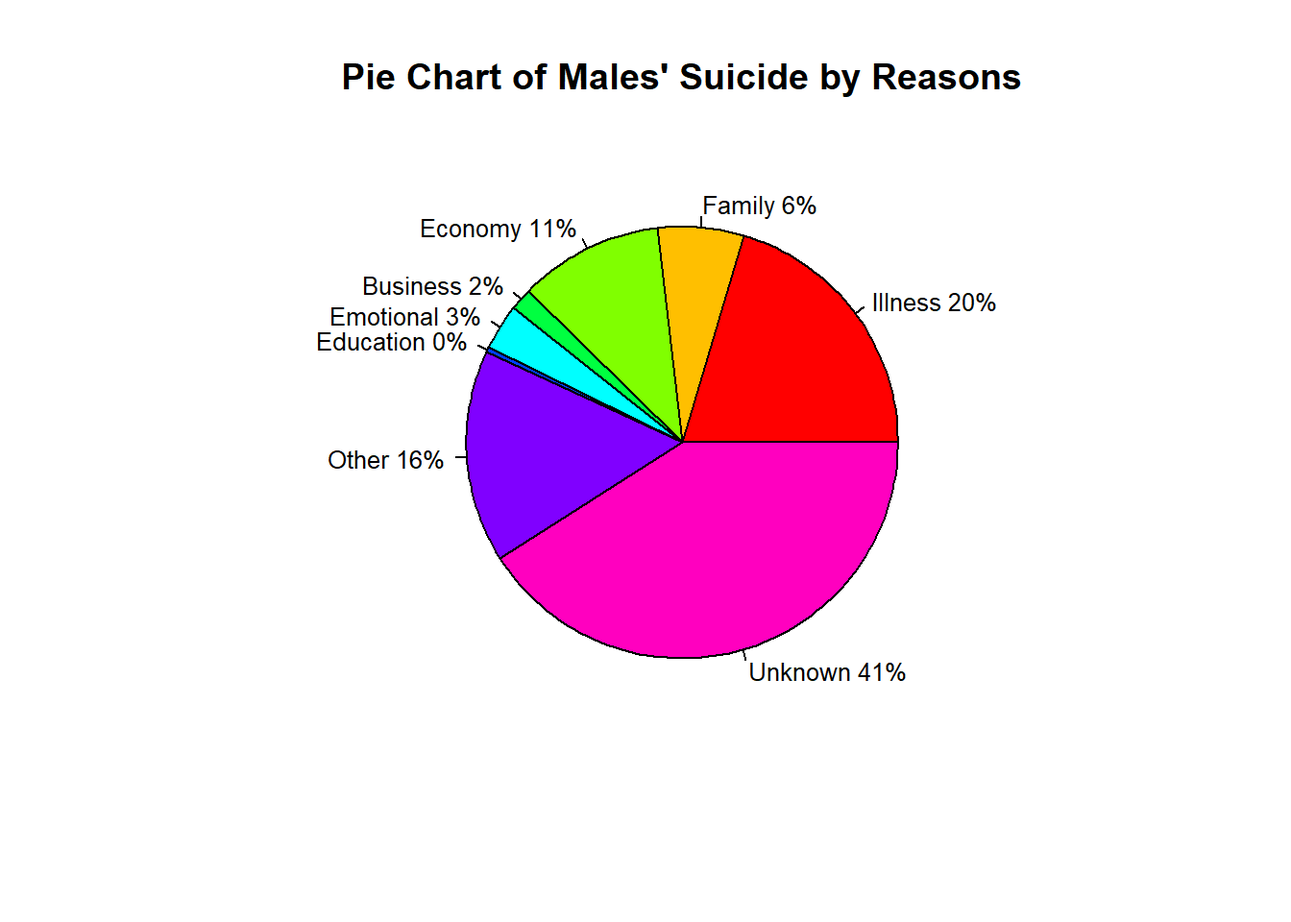
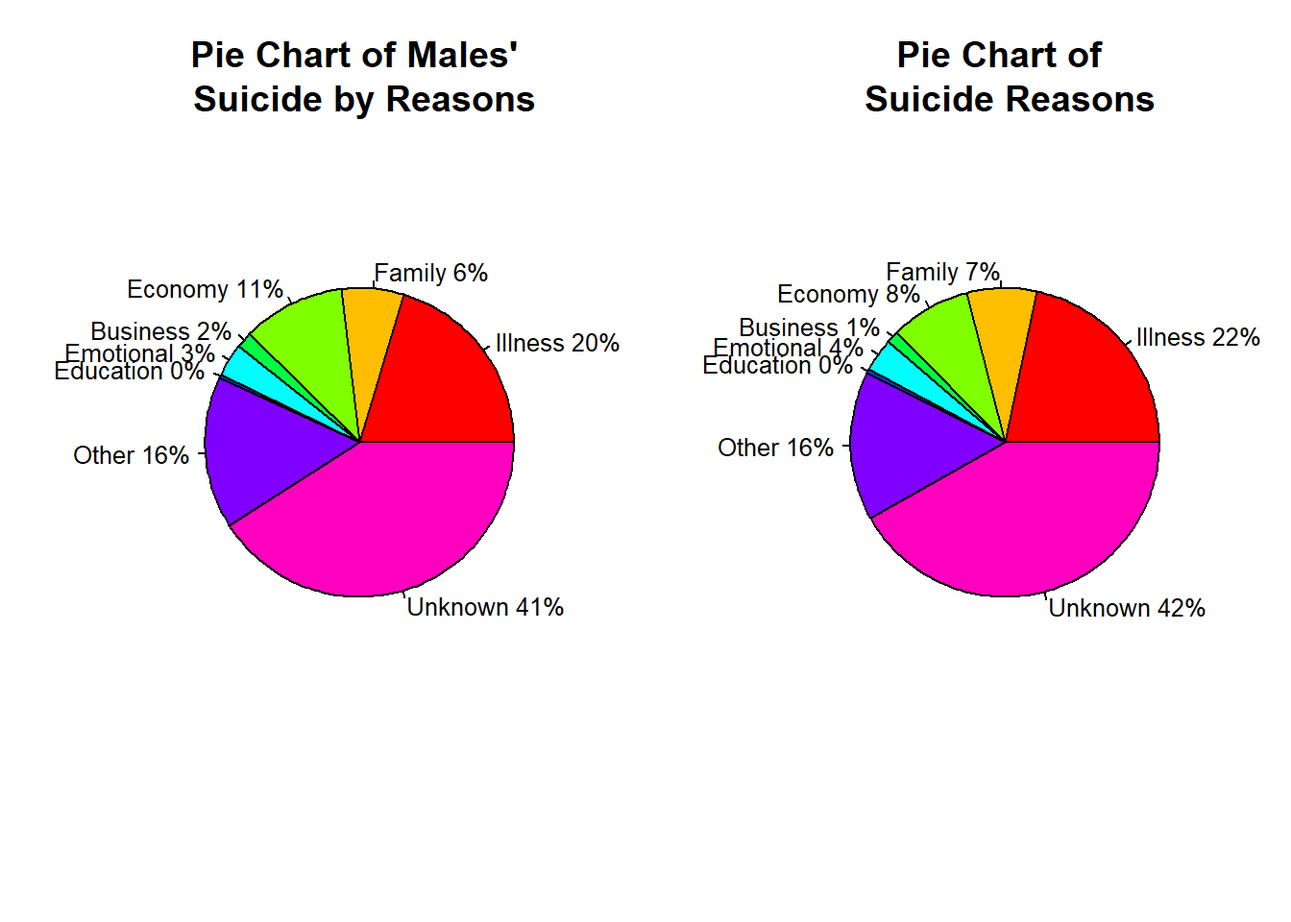
LAST

Changed region(s): [[0.0312, 0.2188, 0.9688, 0.75], [0.125, 0.0312, 0.9062, 0.125]]

diff --git a/docs/analysis.html b/docs/analysis.html
@@ -535,8 +535,13 @@ pre > code.sourceCode > span > a:first-child::before { text-decoration: underlin
 <div class="cell" data-codefold="true">
 <details>
 <summary>Code</summary>
-<div class="sourceCode cell-code" id="cb18"><pre class="sourceCode r code-with-copy"><code class="sourceCode r"><span id="cb18-1"><a href="#cb18-1" aria-hidden="true" tabindex="-1"></a><span class="fu">pie</span>(slices2,lbls2, <span class="at">col=</span><span class="fu">rainbow</span>(<span class="fu">length</span>(lbls2)),</span>
-<span id="cb18-2"><a href="#cb18-2" aria-hidden="true" tabindex="-1"></a>   <span class="at">main=</span><span class="st">"Pie Chart of Males' Suicide by Reasons"</span>,<span class="at">cex=</span><span class="fl">0.8</span>)</span></code><button title="Copy to Clipboard" class="code-copy-button"><i class="bi"></i></button></pre></div>
+<div class="sourceCode cell-code" id="cb18"><pre class="sourceCode r code-with-copy"><code class="sourceCode r"><span id="cb18-1"><a href="#cb18-1" aria-hidden="true" tabindex="-1"></a><span class="fu">par</span>(<span class="at">mfrow=</span><span class="fu">c</span>(<span class="dv">1</span>,<span class="dv">2</span>))     </span>
+<span id="cb18-2"><a href="#cb18-2" aria-hidden="true" tabindex="-1"></a></span>
+<span id="cb18-3"><a href="#cb18-3" aria-hidden="true" tabindex="-1"></a></span>
+<span id="cb18-4"><a href="#cb18-4" aria-hidden="true" tabindex="-1"></a><span class="fu">pie</span>(slices2,lbls2, <span class="at">col=</span><span class="fu">rainbow</span>(<span class="fu">length</span>(lbls2)),</span>
+<span id="cb18-5"><a href="#cb18-5" aria-hidden="true" tabindex="-1"></a>   <span class="at">main=</span><span class="st">"Pie Chart of Males' </span><span class="sc">\n</span><span class="st"> Suicide by Reasons"</span>,<span class="at">cex=</span><span class="fl">0.8</span>)</span>
+<span id="cb18-6"><a href="#cb18-6" aria-hidden="true" tabindex="-1"></a><span class="fu">pie</span>(slices,lbls, <span class="at">col=</span><span class="fu">rainbow</span>(<span class="fu">length</span>(lbls)),</span>
+<span id="cb18-7"><a href="#cb18-7" aria-hidden="true" tabindex="-1"></a>   <span class="at">main=</span><span class="st">"Pie Chart of </span><span class="sc">\n</span><span class="st"> Suicide Reasons"</span>,<span class="at">cex=</span><span class="fl">0.8</span>)</span></code><button title="Copy to Clipboard" class="code-copy-button"><i class="bi"></i></button></pre></div>
 </details>
 <div class="cell-output-display">
 <p><img src="analysis_files/figure-html/unnamed-chunk-18-1.png" class="img-fluid" width="672"></p>
@@ -580,20 +585,24 @@ pre > code.sourceCode > span > a:first-child::before { text-decoration: underlin
 <div class="cell" data-codefold="true">
 <details>
 <summary>Code</summary>
-<div class="sourceCode cell-code" id="cb21"><pre class="sourceCode r code-with-copy"><code class="sourceCode r"><span id="cb21-1"><a href="#cb21-1" aria-hidden="true" tabindex="-1"></a>slices <span class="ot">=</span> <span class="fu">c</span>(<span class="fu">sum</span>(<span class="fu">as.numeric</span>(a1<span class="sc">$</span>Total)),<span class="fu">sum</span>(<span class="fu">as.numeric</span>(a2<span class="sc">$</span>Total)),<span class="fu">sum</span>(<span class="fu">as.numeric</span>(a3<span class="sc">$</span>Total)),<span class="fu">sum</span>(<span class="fu">ifelse</span>(<span class="fu">is.na</span>(<span class="fu">as.numeric</span>(a4<span class="sc">$</span>Total)),<span class="dv">0</span>,<span class="fu">as.numeric</span>(a4<span class="sc">$</span>Total))),<span class="fu">sum</span>(<span class="fu">ifelse</span>(<span class="fu">is.na</span>(<span class="fu">as.numeric</span>(a5<span class="sc">$</span>Total)),<span class="dv">0</span>,<span class="fu">as.numeric</span>(a5<span class="sc">$</span>Total))),<span class="fu">sum</span>(<span class="fu">ifelse</span>(<span class="fu">is.na</span>(<span class="fu">as.numeric</span>(a6<span class="sc">$</span>Total)),<span class="dv">0</span>,<span class="fu">as.numeric</span>(a6<span class="sc">$</span>Total))),<span class="fu">sum</span>(<span class="fu">as.numeric</span>(a7<span class="sc">$</span>Total)),<span class="fu">sum</span>(<span class="fu">as.numeric</span>(a8<span class="sc">$</span>Total)))</span>
+<div class="sourceCode cell-code" id="cb21"><pre class="sourceCode r code-with-copy"><code class="sourceCode r"><span id="cb21-1"><a href="#cb21-1" aria-hidden="true" tabindex="-1"></a>slices3 <span class="ot">=</span> <span class="fu">c</span>(<span class="fu">sum</span>(<span class="fu">as.numeric</span>(a1<span class="sc">$</span>Total)),<span class="fu">sum</span>(<span class="fu">as.numeric</span>(a2<span class="sc">$</span>Total)),<span class="fu">sum</span>(<span class="fu">as.numeric</span>(a3<span class="sc">$</span>Total)),<span class="fu">sum</span>(<span class="fu">ifelse</span>(<span class="fu">is.na</span>(<span class="fu">as.numeric</span>(a4<span class="sc">$</span>Total)),<span class="dv">0</span>,<span class="fu">as.numeric</span>(a4<span class="sc">$</span>Total))),<span class="fu">sum</span>(<span class="fu">ifelse</span>(<span class="fu">is.na</span>(<span class="fu">as.numeric</span>(a5<span class="sc">$</span>Total)),<span class="dv">0</span>,<span class="fu">as.numeric</span>(a5<span class="sc">$</span>Total))),<span class="fu">sum</span>(<span class="fu">ifelse</span>(<span class="fu">is.na</span>(<span class="fu">as.numeric</span>(a6<span class="sc">$</span>Total)),<span class="dv">0</span>,<span class="fu">as.numeric</span>(a6<span class="sc">$</span>Total))),<span class="fu">sum</span>(<span class="fu">as.numeric</span>(a7<span class="sc">$</span>Total)),<span class="fu">sum</span>(<span class="fu">as.numeric</span>(a8<span class="sc">$</span>Total)))</span>
 <span id="cb21-2"><a href="#cb21-2" aria-hidden="true" tabindex="-1"></a>name <span class="ot">=</span> <span class="fu">c</span>(<span class="st">"Illness"</span>,<span class="st">"Family"</span>,<span class="st">"Economy"</span>,<span class="st">"Business"</span>,<span class="st">"Emotional"</span>,<span class="st">"Education"</span>,<span class="st">"Other"</span>,<span class="st">"Unknown"</span>)</span>
-<span id="cb21-3"><a href="#cb21-3" aria-hidden="true" tabindex="-1"></a>lbls <span class="ot">&lt;-</span> name</span>
-<span id="cb21-4"><a href="#cb21-4" aria-hidden="true" tabindex="-1"></a>pct <span class="ot">&lt;-</span> <span class="fu">round</span>(slices<span class="sc">/</span><span class="fu">sum</span>(slices)<span class="sc">*</span><span class="dv">100</span>)</span>
-<span id="cb21-5"><a href="#cb21-5" aria-hidden="true" tabindex="-1"></a>lbls <span class="ot">&lt;-</span> <span class="fu">paste</span>(lbls, pct)</span>
+<span id="cb21-3"><a href="#cb21-3" aria-hidden="true" tabindex="-1"></a>lbls3 <span class="ot">&lt;-</span> name</span>
+<span id="cb21-4"><a href="#cb21-4" aria-hidden="true" tabindex="-1"></a>pct <span class="ot">&lt;-</span> <span class="fu">round</span>(slices3<span class="sc">/</span><span class="fu">sum</span>(slices3)<span class="sc">*</span><span class="dv">100</span>)</span>
+<span id="cb21-5"><a href="#cb21-5" aria-hidden="true" tabindex="-1"></a>lbls3 <span class="ot">&lt;-</span> <span class="fu">paste</span>(lbls3, pct)</span>
 <span id="cb21-6"><a href="#cb21-6" aria-hidden="true" tabindex="-1"></a><span class="co"># add percents to labels</span></span>
-<span id="cb21-7"><a href="#cb21-7" aria-hidden="true" tabindex="-1"></a>lbls <span class="ot">&lt;-</span> <span class="fu">paste</span>(lbls,<span class="st">"%"</span>,<span class="at">sep=</span><span class="st">""</span>) <span class="co"># ad % to labels</span></span></code><button title="Copy to Clipboard" class="code-copy-button"><i class="bi"></i></button></pre></div>
+<span id="cb21-7"><a href="#cb21-7" aria-hidden="true" tabindex="-1"></a>lbls3 <span class="ot">&lt;-</span> <span class="fu">paste</span>(lbls3,<span class="st">"%"</span>,<span class="at">sep=</span><span class="st">""</span>) <span class="co"># ad % to labels</span></span></code><button title="Copy to Clipboard" class="code-copy-button"><i class="bi"></i></button></pre></div>
 </details>
 </div>
 <div class="cell" data-codefold="true">
 <details>
 <summary>Code</summary>
-<div class="sourceCode cell-code" id="cb22"><pre class="sourceCode r code-with-copy"><code class="sourceCode r"><span id="cb22-1"><a href="#cb22-1" aria-hidden="true" tabindex="-1"></a><span class="fu">pie</span>(slices,<span class="at">labels =</span> lbls, <span class="at">col=</span><span class="fu">rainbow</span>(<span class="fu">length</span>(lbls)),</span>
-<span id="cb22-2"><a href="#cb22-2" aria-hidden="true" tabindex="-1"></a>   <span class="at">main=</span><span class="st">"Pie Chart of Females' Suicide by Reasons"</span>,<span class="at">cex=</span><span class="fl">0.5</span>)</span></code><button title="Copy to Clipboard" class="code-copy-button"><i class="bi"></i></button></pre></div>
+<div class="sourceCode cell-code" id="cb22"><pre class="sourceCode r code-with-copy"><code class="sourceCode r"><span id="cb22-1"><a href="#cb22-1" aria-hidden="true" tabindex="-1"></a><span class="fu">par</span>(<span class="at">mfrow=</span><span class="fu">c</span>(<span class="dv">1</span>,<span class="dv">2</span>))     </span>
+<span id="cb22-2"><a href="#cb22-2" aria-hidden="true" tabindex="-1"></a></span>
+<span id="cb22-3"><a href="#cb22-3" aria-hidden="true" tabindex="-1"></a><span class="fu">pie</span>(slices3,<span class="at">labels =</span> lbls3, <span class="at">col=</span><span class="fu">rainbow</span>(<span class="fu">length</span>(lbls3)),</span>
+<span id="cb22-4"><a href="#cb22-4" aria-hidden="true" tabindex="-1"></a>   <span class="at">main=</span><span class="st">"Pie Chart of Females' </span><span class="sc">\n</span><span class="st"> Suicide by Reasons"</span>,<span class="at">cex=</span><span class="fl">0.5</span>)</span>
+<span id="cb22-5"><a href="#cb22-5" aria-hidden="true" tabindex="-1"></a><span class="fu">pie</span>(slices,lbls, <span class="at">col=</span><span class="fu">rainbow</span>(<span class="fu">length</span>(lbls)),</span>
+<span id="cb22-6"><a href="#cb22-6" aria-hidden="true" tabindex="-1"></a>   <span class="at">main=</span><span class="st">"Pie Chart of </span><span class="sc">\n</span><span class="st"> Suicide Reasons"</span>,<span class="at">cex=</span><span class="fl">0.5</span>)</span></code><button title="Copy to Clipboard" class="code-copy-button"><i class="bi"></i></button></pre></div>
 </details>
 <div class="cell-output-display">
 <p><img src="analysis_files/figure-html/unnamed-chunk-22-1.png" class="img-fluid" width="672"></p>
@@ -1340,59 +1349,67 @@ window.document.addEventListener("DOMContentLoaded", function (event) {
 <span id="cb23-365"><a href="#cb23-365" aria-hidden="true" tabindex="-1"></a></span>
 <span id="cb23-368"><a href="#cb23-368" aria-hidden="true" tabindex="-1"></a><span class="in">```{r}</span></span>
 <span id="cb23-369"><a href="#cb23-369" aria-hidden="true" tabindex="-1"></a><span class="co">#| codefold: true</span></span>
-<span id="cb23-370"><a href="#cb23-370" aria-hidden="true" tabindex="-1"></a></span>
-<span id="cb23-371"><a href="#cb23-371" aria-hidden="true" tabindex="-1"></a><span class="fu">pie</span>(slices2,lbls2, <span class="at">col=</span><span class="fu">rainbow</span>(<span class="fu">length</span>(lbls2)),</span>
-<span id="cb23-372"><a href="#cb23-372" aria-hidden="true" tabindex="-1"></a>   <span class="at">main=</span><span class="st">"Pie Chart of Males' Suicide by Reasons"</span>,<span class="at">cex=</span><span class="fl">0.8</span>)</span>
-<span id="cb23-373"><a href="#cb23-373" aria-hidden="true" tabindex="-1"></a></span>
-<span id="cb23-374"><a href="#cb23-374" aria-hidden="true" tabindex="-1"></a><span class="in">```</span></span>
-<span id="cb23-375"><a href="#cb23-375" aria-hidden="true" tabindex="-1"></a></span>
-<span id="cb23-376"><a href="#cb23-376" aria-hidden="true" tabindex="-1"></a><span class="fu">### **Suicides of Females by Reason**</span></span>
+<span id="cb23-370"><a href="#cb23-370" aria-hidden="true" tabindex="-1"></a><span class="fu">par</span>(<span class="at">mfrow=</span><span class="fu">c</span>(<span class="dv">1</span>,<span class="dv">2</span>))     </span>
+<span id="cb23-371"><a href="#cb23-371" aria-hidden="true" tabindex="-1"></a></span>
+<span id="cb23-372"><a href="#cb23-372" aria-hidden="true" tabindex="-1"></a></span>
+<span id="cb23-373"><a href="#cb23-373" aria-hidden="true" tabindex="-1"></a><span class="fu">pie</span>(slices2,lbls2, <span class="at">col=</span><span class="fu">rainbow</span>(<span class="fu">length</span>(lbls2)),</span>
+<span id="cb23-374"><a href="#cb23-374" aria-hidden="true" tabindex="-1"></a>   <span class="at">main=</span><span class="st">"Pie Chart of Males' </span><span class="sc">\n</span><span class="st"> Suicide by Reasons"</span>,<span class="at">cex=</span><span class="fl">0.8</span>)</span>
+<span id="cb23-375"><a href="#cb23-375" aria-hidden="true" tabindex="-1"></a><span class="fu">pie</span>(slices,lbls, <span class="at">col=</span><span class="fu">rainbow</span>(<span class="fu">length</span>(lbls)),</span>
+<span id="cb23-376"><a href="#cb23-376" aria-hidden="true" tabindex="-1"></a>   <span class="at">main=</span><span class="st">"Pie Chart of </span><span class="sc">\n</span><span class="st"> Suicide Reasons"</span>,<span class="at">cex=</span><span class="fl">0.8</span>)</span>
 <span id="cb23-377"><a href="#cb23-377" aria-hidden="true" tabindex="-1"></a></span>
-<span id="cb23-380"><a href="#cb23-380" aria-hidden="true" tabindex="-1"></a><span class="in">```{r}</span></span>
-<span id="cb23-381"><a href="#cb23-381" aria-hidden="true" tabindex="-1"></a><span class="co">#| codefold: true</span></span>
-<span id="cb23-382"><a href="#cb23-382" aria-hidden="true" tabindex="-1"></a><span class="co">#| output: false</span></span>
-<span id="cb23-383"><a href="#cb23-383" aria-hidden="true" tabindex="-1"></a>  a <span class="ot">=</span> <span class="fu">filter</span>(data,Age<span class="sc">==</span><span class="st">"Total"</span>, Sex <span class="sc">==</span> <span class="st">"Female"</span>)</span>
-<span id="cb23-384"><a href="#cb23-384" aria-hidden="true" tabindex="-1"></a>  a1 <span class="ot">=</span> <span class="fu">data.frame</span>(<span class="at">Year=</span>a<span class="sc">$</span>Year,<span class="at">Total=</span>a<span class="sc">$</span>Illness,<span class="at">Cause=</span><span class="st">"Illness"</span>)</span>
-<span id="cb23-385"><a href="#cb23-385" aria-hidden="true" tabindex="-1"></a>  a2 <span class="ot">=</span> <span class="fu">data.frame</span>(<span class="at">Year=</span>a<span class="sc">$</span>Year,<span class="at">Total=</span>a<span class="sc">$</span>Family,<span class="at">Cause=</span><span class="st">"Family"</span>)</span>
-<span id="cb23-386"><a href="#cb23-386" aria-hidden="true" tabindex="-1"></a>  a3 <span class="ot">=</span> <span class="fu">data.frame</span>(<span class="at">Year=</span>a<span class="sc">$</span>Year,<span class="at">Total=</span>a<span class="sc">$</span>Economy,<span class="at">Cause=</span><span class="st">"Economy"</span>)</span>
-<span id="cb23-387"><a href="#cb23-387" aria-hidden="true" tabindex="-1"></a>  a4 <span class="ot">=</span> <span class="fu">data.frame</span>(<span class="at">Year=</span>a<span class="sc">$</span>Year,<span class="at">Total=</span>a<span class="sc">$</span>Business,<span class="at">Cause=</span><span class="st">"Business"</span>)</span>
-<span id="cb23-388"><a href="#cb23-388" aria-hidden="true" tabindex="-1"></a>  a5 <span class="ot">=</span> <span class="fu">data.frame</span>(<span class="at">Year=</span>a<span class="sc">$</span>Year,<span class="at">Total=</span>a<span class="sc">$</span>Emotional,<span class="at">Cause=</span><span class="st">"Emotional"</span>)</span>
-<span id="cb23-389"><a href="#cb23-389" aria-hidden="true" tabindex="-1"></a>  a6 <span class="ot">=</span> <span class="fu">data.frame</span>(<span class="at">Year=</span>a<span class="sc">$</span>Year,<span class="at">Total=</span>a<span class="sc">$</span>Education,<span class="at">Cause=</span><span class="st">"Education"</span>)</span>
-<span id="cb23-390"><a href="#cb23-390" aria-hidden="true" tabindex="-1"></a>  a7 <span class="ot">=</span> <span class="fu">data.frame</span>(<span class="at">Year=</span>a<span class="sc">$</span>Year,<span class="at">Total=</span>a<span class="sc">$</span>Other,<span class="at">Cause=</span><span class="st">"Other"</span>)</span>
-<span id="cb23-391"><a href="#cb23-391" aria-hidden="true" tabindex="-1"></a>  a8 <span class="ot">=</span> <span class="fu">data.frame</span>(<span class="at">Year=</span>a<span class="sc">$</span>Year,<span class="at">Total=</span>a<span class="sc">$</span>Unknown,<span class="at">Cause=</span><span class="st">"Unknown"</span>)</span>
-<span id="cb23-392"><a href="#cb23-392" aria-hidden="true" tabindex="-1"></a>  cause <span class="ot">=</span> <span class="fu">rbind</span>(a1,a2,a3,a4,a5,a6,a7,a8,<span class="at">deparse.level =</span> <span class="dv">0</span>)</span>
-<span id="cb23-393"><a href="#cb23-393" aria-hidden="true" tabindex="-1"></a>  b <span class="ot">=</span> <span class="fu">as.numeric</span>(cause<span class="sc">$</span>Total)</span>
-<span id="cb23-394"><a href="#cb23-394" aria-hidden="true" tabindex="-1"></a>  c <span class="ot">=</span> <span class="fu">ifelse</span>(<span class="fu">is.na</span>(b),<span class="dv">0</span>,b)</span>
-<span id="cb23-395"><a href="#cb23-395" aria-hidden="true" tabindex="-1"></a><span class="in">```</span></span>
-<span id="cb23-396"><a href="#cb23-396" aria-hidden="true" tabindex="-1"></a></span>
-<span id="cb23-399"><a href="#cb23-399" aria-hidden="true" tabindex="-1"></a><span class="in">```{r}</span></span>
-<span id="cb23-400"><a href="#cb23-400" aria-hidden="true" tabindex="-1"></a><span class="co">#| codefold: true</span></span>
-<span id="cb23-401"><a href="#cb23-401" aria-hidden="true" tabindex="-1"></a>graph <span class="ot">&lt;-</span> cause <span class="sc">%&gt;%</span> </span>
-<span id="cb23-402"><a href="#cb23-402" aria-hidden="true" tabindex="-1"></a>    <span class="fu">filter</span>(Cause <span class="sc">%in%</span> <span class="fu">c</span>(<span class="st">"Illness"</span>,<span class="st">"Family"</span>,<span class="st">"Economy"</span>,<span class="st">"Business"</span>,<span class="st">"Emotional"</span>,<span class="st">"Education"</span>,<span class="st">"Other"</span>,<span class="st">"Unknown"</span>))</span>
-<span id="cb23-403"><a href="#cb23-403" aria-hidden="true" tabindex="-1"></a>  graph <span class="sc">%&gt;%</span></span>
-<span id="cb23-404"><a href="#cb23-404" aria-hidden="true" tabindex="-1"></a>    <span class="fu">ggplot</span>( <span class="fu">aes</span>(<span class="at">x=</span>Year, <span class="at">y=</span>c, <span class="at">group=</span>Cause, <span class="at">color=</span>Cause)) <span class="sc">+</span></span>
-<span id="cb23-405"><a href="#cb23-405" aria-hidden="true" tabindex="-1"></a>      <span class="fu">geom_line</span>() <span class="sc">+</span></span>
-<span id="cb23-406"><a href="#cb23-406" aria-hidden="true" tabindex="-1"></a>      <span class="fu">ylab</span>(<span class="st">"Number of Suicides"</span>) <span class="sc">+</span></span>
-<span id="cb23-407"><a href="#cb23-407" aria-hidden="true" tabindex="-1"></a>      <span class="fu">ggtitle</span>(<span class="st">"Number of Females' Suicide by Reasons"</span>)</span>
-<span id="cb23-408"><a href="#cb23-408" aria-hidden="true" tabindex="-1"></a><span class="in">```</span></span>
-<span id="cb23-409"><a href="#cb23-409" aria-hidden="true" tabindex="-1"></a></span>
-<span id="cb23-412"><a href="#cb23-412" aria-hidden="true" tabindex="-1"></a><span class="in">```{r}</span></span>
-<span id="cb23-413"><a href="#cb23-413" aria-hidden="true" tabindex="-1"></a><span class="co">#| codefold: true</span></span>
-<span id="cb23-414"><a href="#cb23-414" aria-hidden="true" tabindex="-1"></a><span class="co">#| output: false</span></span>
-<span id="cb23-415"><a href="#cb23-415" aria-hidden="true" tabindex="-1"></a>slices <span class="ot">=</span> <span class="fu">c</span>(<span class="fu">sum</span>(<span class="fu">as.numeric</span>(a1<span class="sc">$</span>Total)),<span class="fu">sum</span>(<span class="fu">as.numeric</span>(a2<span class="sc">$</span>Total)),<span class="fu">sum</span>(<span class="fu">as.numeric</span>(a3<span class="sc">$</span>Total)),<span class="fu">sum</span>(<span class="fu">ifelse</span>(<span class="fu">is.na</span>(<span class="fu">as.numeric</span>(a4<span class="sc">$</span>Total)),<span class="dv">0</span>,<span class="fu">as.numeric</span>(a4<span class="sc">$</span>Total))),<span class="fu">sum</span>(<span class="fu">ifelse</span>(<span class="fu">is.na</span>(<span class="fu">as.numeric</span>(a5<span class="sc">$</span>Total)),<span class="dv">0</span>,<span class="fu">as.numeric</span>(a5<span class="sc">$</span>Total))),<span class="fu">sum</span>(<span class="fu">ifelse</span>(<span class="fu">is.na</span>(<span class="fu">as.numeric</span>(a6<span class="sc">$</span>Total)),<span class="dv">0</span>,<span class="fu">as.numeric</span>(a6<span class="sc">$</span>Total))),<span class="fu">sum</span>(<span class="fu">as.numeric</span>(a7<span class="sc">$</span>Total)),<span class="fu">sum</span>(<span class="fu">as.numeric</span>(a8<span class="sc">$</span>Total)))</span>
-<span id="cb23-416"><a href="#cb23-416" aria-hidden="true" tabindex="-1"></a>name <span class="ot">=</span> <span class="fu">c</span>(<span class="st">"Illness"</span>,<span class="st">"Family"</span>,<span class="st">"Economy"</span>,<span class="st">"Business"</span>,<span class="st">"Emotional"</span>,<span class="st">"Education"</span>,<span class="st">"Other"</span>,<span class="st">"Unknown"</span>)</span>
-<span id="cb23-417"><a href="#cb23-417" aria-hidden="true" tabindex="-1"></a>lbls <span class="ot">&lt;-</span> name</span>
-<span id="cb23-418"><a href="#cb23-418" aria-hidden="true" tabindex="-1"></a>pct <span class="ot">&lt;-</span> <span class="fu">round</span>(slices<span class="sc">/</span><span class="fu">sum</span>(slices)<span class="sc">*</span><span class="dv">100</span>)</span>
-<span id="cb23-419"><a href="#cb23-419" aria-hidden="true" tabindex="-1"></a>lbls <span class="ot">&lt;-</span> <span class="fu">paste</span>(lbls, pct)</span>
-<span id="cb23-420"><a href="#cb23-420" aria-hidden="true" tabindex="-1"></a><span class="co"># add percents to labels</span></span>
-<span id="cb23-421"><a href="#cb23-421" aria-hidden="true" tabindex="-1"></a>lbls <span class="ot">&lt;-</span> <span class="fu">paste</span>(lbls,<span class="st">"%"</span>,<span class="at">sep=</span><span class="st">""</span>) <span class="co"># ad % to labels</span></span>
-<span id="cb23-422"><a href="#cb23-422" aria-hidden="true" tabindex="-1"></a><span class="in">```</span></span>
-<span id="cb23-423"><a href="#cb23-423" aria-hidden="true" tabindex="-1"></a></span>
-<span id="cb23-426"><a href="#cb23-426" aria-hidden="true" tabindex="-1"></a><span class="in">```{r}</span></span>
-<span id="cb23-427"><a href="#cb23-427" aria-hidden="true" tabindex="-1"></a><span class="co">#| codefold: true</span></span>
-<span id="cb23-428"><a href="#cb23-428" aria-hidden="true" tabindex="-1"></a><span class="fu">pie</span>(slices,<span class="at">labels =</span> lbls, <span class="at">col=</span><span class="fu">rainbow</span>(<span class="fu">length</span>(lbls)),</span>
-<span id="cb23-429"><a href="#cb23-429" aria-hidden="true" tabindex="-1"></a>   <span class="at">main=</span><span class="st">"Pie Chart of Females' Suicide by Reasons"</span>,<span class="at">cex=</span><span class="fl">0.5</span>)</span>
-<span id="cb23-430"><a href="#cb23-430" aria-hidden="true" tabindex="-1"></a><span class="in">```</span></span>
+<span id="cb23-378"><a href="#cb23-378" aria-hidden="true" tabindex="-1"></a><span class="in">```</span></span>
+<span id="cb23-379"><a href="#cb23-379" aria-hidden="true" tabindex="-1"></a></span>
+<span id="cb23-380"><a href="#cb23-380" aria-hidden="true" tabindex="-1"></a><span class="fu">### **Suicides of Females by Reason**</span></span>
+<span id="cb23-381"><a href="#cb23-381" aria-hidden="true" tabindex="-1"></a></span>
+<span id="cb23-384"><a href="#cb23-384" aria-hidden="true" tabindex="-1"></a><span class="in">```{r}</span></span>
+<span id="cb23-385"><a href="#cb23-385" aria-hidden="true" tabindex="-1"></a><span class="co">#| codefold: true</span></span>
+<span id="cb23-386"><a href="#cb23-386" aria-hidden="true" tabindex="-1"></a><span class="co">#| output: false</span></span>
+<span id="cb23-387"><a href="#cb23-387" aria-hidden="true" tabindex="-1"></a>  a <span class="ot">=</span> <span class="fu">filter</span>(data,Age<span class="sc">==</span><span class="st">"Total"</span>, Sex <span class="sc">==</span> <span class="st">"Female"</span>)</span>
+<span id="cb23-388"><a href="#cb23-388" aria-hidden="true" tabindex="-1"></a>  a1 <span class="ot">=</span> <span class="fu">data.frame</span>(<span class="at">Year=</span>a<span class="sc">$</span>Year,<span class="at">Total=</span>a<span class="sc">$</span>Illness,<span class="at">Cause=</span><span class="st">"Illness"</span>)</span>
+<span id="cb23-389"><a href="#cb23-389" aria-hidden="true" tabindex="-1"></a>  a2 <span class="ot">=</span> <span class="fu">data.frame</span>(<span class="at">Year=</span>a<span class="sc">$</span>Year,<span class="at">Total=</span>a<span class="sc">$</span>Family,<span class="at">Cause=</span><span class="st">"Family"</span>)</span>
+<span id="cb23-390"><a href="#cb23-390" aria-hidden="true" tabindex="-1"></a>  a3 <span class="ot">=</span> <span class="fu">data.frame</span>(<span class="at">Year=</span>a<span class="sc">$</span>Year,<span class="at">Total=</span>a<span class="sc">$</span>Economy,<span class="at">Cause=</span><span class="st">"Economy"</span>)</span>
+<span id="cb23-391"><a href="#cb23-391" aria-hidden="true" tabindex="-1"></a>  a4 <span class="ot">=</span> <span class="fu">data.frame</span>(<span class="at">Year=</span>a<span class="sc">$</span>Year,<span class="at">Total=</span>a<span class="sc">$</span>Business,<span class="at">Cause=</span><span class="st">"Business"</span>)</span>
+<span id="cb23-392"><a href="#cb23-392" aria-hidden="true" tabindex="-1"></a>  a5 <span class="ot">=</span> <span class="fu">data.frame</span>(<span class="at">Year=</span>a<span class="sc">$</span>Year,<span class="at">Total=</span>a<span class="sc">$</span>Emotional,<span class="at">Cause=</span><span class="st">"Emotional"</span>)</span>
+<span id="cb23-393"><a href="#cb23-393" aria-hidden="true" tabindex="-1"></a>  a6 <span class="ot">=</span> <span class="fu">data.frame</span>(<span class="at">Year=</span>a<span class="sc">$</span>Year,<span class="at">Total=</span>a<span class="sc">$</span>Education,<span class="at">Cause=</span><span class="st">"Education"</span>)</span>
+<span id="cb23-394"><a href="#cb23-394" aria-hidden="true" tabindex="-1"></a>  a7 <span class="ot">=</span> <span class="fu">data.frame</span>(<span class="at">Year=</span>a<span class="sc">$</span>Year,<span class="at">Total=</span>a<span class="sc">$</span>Other,<span class="at">Cause=</span><span class="st">"Other"</span>)</span>
+<span id="cb23-395"><a href="#cb23-395" aria-hidden="true" tabindex="-1"></a>  a8 <span class="ot">=</span> <span class="fu">data.frame</span>(<span class="at">Year=</span>a<span class="sc">$</span>Year,<span class="at">Total=</span>a<span class="sc">$</span>Unknown,<span class="at">Cause=</span><span class="st">"Unknown"</span>)</span>
+<span id="cb23-396"><a href="#cb23-396" aria-hidden="true" tabindex="-1"></a>  cause <span class="ot">=</span> <span class="fu">rbind</span>(a1,a2,a3,a4,a5,a6,a7,a8,<span class="at">deparse.level =</span> <span class="dv">0</span>)</span>
+<span id="cb23-397"><a href="#cb23-397" aria-hidden="true" tabindex="-1"></a>  b <span class="ot">=</span> <span class="fu">as.numeric</span>(cause<span class="sc">$</span>Total)</span>
+<span id="cb23-398"><a href="#cb23-398" aria-hidden="true" tabindex="-1"></a>  c <span class="ot">=</span> <span class="fu">ifelse</span>(<span class="fu">is.na</span>(b),<span class="dv">0</span>,b)</span>
+<span id="cb23-399"><a href="#cb23-399" aria-hidden="true" tabindex="-1"></a><span class="in">```</span></span>
+<span id="cb23-400"><a href="#cb23-400" aria-hidden="true" tabindex="-1"></a></span>
+<span id="cb23-403"><a href="#cb23-403" aria-hidden="true" tabindex="-1"></a><span class="in">```{r}</span></span>
+<span id="cb23-404"><a href="#cb23-404" aria-hidden="true" tabindex="-1"></a><span class="co">#| codefold: true</span></span>
+<span id="cb23-405"><a href="#cb23-405" aria-hidden="true" tabindex="-1"></a>graph <span class="ot">&lt;-</span> cause <span class="sc">%&gt;%</span> </span>
+<span id="cb23-406"><a href="#cb23-406" aria-hidden="true" tabindex="-1"></a>    <span class="fu">filter</span>(Cause <span class="sc">%in%</span> <span class="fu">c</span>(<span class="st">"Illness"</span>,<span class="st">"Family"</span>,<span class="st">"Economy"</span>,<span class="st">"Business"</span>,<span class="st">"Emotional"</span>,<span class="st">"Education"</span>,<span class="st">"Other"</span>,<span class="st">"Unknown"</span>))</span>
+<span id="cb23-407"><a href="#cb23-407" aria-hidden="true" tabindex="-1"></a>  graph <span class="sc">%&gt;%</span></span>
+<span id="cb23-408"><a href="#cb23-408" aria-hidden="true" tabindex="-1"></a>    <span class="fu">ggplot</span>( <span class="fu">aes</span>(<span class="at">x=</span>Year, <span class="at">y=</span>c, <span class="at">group=</span>Cause, <span class="at">color=</span>Cause)) <span class="sc">+</span></span>
+<span id="cb23-409"><a href="#cb23-409" aria-hidden="true" tabindex="-1"></a>      <span class="fu">geom_line</span>() <span class="sc">+</span></span>
+<span id="cb23-410"><a href="#cb23-410" aria-hidden="true" tabindex="-1"></a>      <span class="fu">ylab</span>(<span class="st">"Number of Suicides"</span>) <span class="sc">+</span></span>
+<span id="cb23-411"><a href="#cb23-411" aria-hidden="true" tabindex="-1"></a>      <span class="fu">ggtitle</span>(<span class="st">"Number of Females' Suicide by Reasons"</span>)</span>
+<span id="cb23-412"><a href="#cb23-412" aria-hidden="true" tabindex="-1"></a><span class="in">```</span></span>
+<span id="cb23-413"><a href="#cb23-413" aria-hidden="true" tabindex="-1"></a></span>
+<span id="cb23-416"><a href="#cb23-416" aria-hidden="true" tabindex="-1"></a><span class="in">```{r}</span></span>
+<span id="cb23-417"><a href="#cb23-417" aria-hidden="true" tabindex="-1"></a><span class="co">#| codefold: true</span></span>
+<span id="cb23-418"><a href="#cb23-418" aria-hidden="true" tabindex="-1"></a><span class="co">#| output: false</span></span>
+<span id="cb23-419"><a href="#cb23-419" aria-hidden="true" tabindex="-1"></a>slices3 <span class="ot">=</span> <span class="fu">c</span>(<span class="fu">sum</span>(<span class="fu">as.numeric</span>(a1<span class="sc">$</span>Total)),<span class="fu">sum</span>(<span class="fu">as.numeric</span>(a2<span class="sc">$</span>Total)),<span class="fu">sum</span>(<span class="fu">as.numeric</span>(a3<span class="sc">$</span>Total)),<span class="fu">sum</span>(<span class="fu">ifelse</span>(<span class="fu">is.na</span>(<span class="fu">as.numeric</span>(a4<span class="sc">$</span>Total)),<span class="dv">0</span>,<span class="fu">as.numeric</span>(a4<span class="sc">$</span>Total))),<span class="fu">sum</span>(<span class="fu">ifelse</span>(<span class="fu">is.na</span>(<span class="fu">as.numeric</span>(a5<span class="sc">$</span>Total)),<span class="dv">0</span>,<span class="fu">as.numeric</span>(a5<span class="sc">$</span>Total))),<span class="fu">sum</span>(<span class="fu">ifelse</span>(<span class="fu">is.na</span>(<span class="fu">as.numeric</span>(a6<span class="sc">$</span>Total)),<span class="dv">0</span>,<span class="fu">as.numeric</span>(a6<span class="sc">$</span>Total))),<span class="fu">sum</span>(<span class="fu">as.numeric</span>(a7<span class="sc">$</span>Total)),<span class="fu">sum</span>(<span class="fu">as.numeric</span>(a8<span class="sc">$</span>Total)))</span>
+<span id="cb23-420"><a href="#cb23-420" aria-hidden="true" tabindex="-1"></a>name <span class="ot">=</span> <span class="fu">c</span>(<span class="st">"Illness"</span>,<span class="st">"Family"</span>,<span class="st">"Economy"</span>,<span class="st">"Business"</span>,<span class="st">"Emotional"</span>,<span class="st">"Education"</span>,<span class="st">"Other"</span>,<span class="st">"Unknown"</span>)</span>
+<span id="cb23-421"><a href="#cb23-421" aria-hidden="true" tabindex="-1"></a>lbls3 <span class="ot">&lt;-</span> name</span>
+<span id="cb23-422"><a href="#cb23-422" aria-hidden="true" tabindex="-1"></a>pct <span class="ot">&lt;-</span> <span class="fu">round</span>(slices3<span class="sc">/</span><span class="fu">sum</span>(slices3)<span class="sc">*</span><span class="dv">100</span>)</span>
+<span id="cb23-423"><a href="#cb23-423" aria-hidden="true" tabindex="-1"></a>lbls3 <span class="ot">&lt;-</span> <span class="fu">paste</span>(lbls3, pct)</span>
+<span id="cb23-424"><a href="#cb23-424" aria-hidden="true" tabindex="-1"></a><span class="co"># add percents to labels</span></span>
+<span id="cb23-425"><a href="#cb23-425" aria-hidden="true" tabindex="-1"></a>lbls3 <span class="ot">&lt;-</span> <span class="fu">paste</span>(lbls3,<span class="st">"%"</span>,<span class="at">sep=</span><span class="st">""</span>) <span class="co"># ad % to labels</span></span>
+<span id="cb23-426"><a href="#cb23-426" aria-hidden="true" tabindex="-1"></a><span class="in">```</span></span>
+<span id="cb23-427"><a href="#cb23-427" aria-hidden="true" tabindex="-1"></a></span>
+<span id="cb23-430"><a href="#cb23-430" aria-hidden="true" tabindex="-1"></a><span class="in">```{r}</span></span>
+<span id="cb23-431"><a href="#cb23-431" aria-hidden="true" tabindex="-1"></a><span class="co">#| codefold: true</span></span>
+<span id="cb23-432"><a href="#cb23-432" aria-hidden="true" tabindex="-1"></a><span class="fu">par</span>(<span class="at">mfrow=</span><span class="fu">c</span>(<span class="dv">1</span>,<span class="dv">2</span>))     </span>
+<span id="cb23-433"><a href="#cb23-433" aria-hidden="true" tabindex="-1"></a></span>
+<span id="cb23-434"><a href="#cb23-434" aria-hidden="true" tabindex="-1"></a><span class="fu">pie</span>(slices3,<span class="at">labels =</span> lbls3, <span class="at">col=</span><span class="fu">rainbow</span>(<span class="fu">length</span>(lbls3)),</span>
+<span id="cb23-435"><a href="#cb23-435" aria-hidden="true" tabindex="-1"></a>   <span class="at">main=</span><span class="st">"Pie Chart of Females' </span><span class="sc">\n</span><span class="st"> Suicide by Reasons"</span>,<span class="at">cex=</span><span class="fl">0.5</span>)</span>
+<span id="cb23-436"><a href="#cb23-436" aria-hidden="true" tabindex="-1"></a><span class="fu">pie</span>(slices,lbls, <span class="at">col=</span><span class="fu">rainbow</span>(<span class="fu">length</span>(lbls)),</span>
+<span id="cb23-437"><a href="#cb23-437" aria-hidden="true" tabindex="-1"></a>   <span class="at">main=</span><span class="st">"Pie Chart of </span><span class="sc">\n</span><span class="st"> Suicide Reasons"</span>,<span class="at">cex=</span><span class="fl">0.5</span>)</span>
+<span id="cb23-438"><a href="#cb23-438" aria-hidden="true" tabindex="-1"></a><span class="in">```</span></span>
 </code><button title="Copy to Clipboard" class="code-copy-button"><i class="bi"></i></button></pre></div>
 </div></div></div></div></div>
 </div> <!-- /content -->

diff --git a/docs/index.html b/docs/index.html
@@ -114,6 +114,7 @@ ul.task-list li input[type="checkbox"] {
   <ul>
   <li><a href="#team-members" id="toc-team-members" class="nav-link active" data-scroll-target="#team-members">Team Members</a></li>
   <li><a href="#project-topic" id="toc-project-topic" class="nav-link" data-scroll-target="#project-topic">Project Topic</a></li>
+  <li><a href="#video-link" id="toc-video-link" class="nav-link" data-scroll-target="#video-link">Video Link</a></li>
   <li><a href="#key-takeaways" id="toc-key-takeaways" class="nav-link" data-scroll-target="#key-takeaways">Key Takeaways</a></li>
   </ul>
 </nav>
@@ -142,22 +143,33 @@ ul.task-list li input[type="checkbox"] {
 
 </header>
 
-<p>This is our project webpage.</p>
-<p>Please stay tuned to follow our project activities.</p>
-<p>This is our template.</p>
+<ul>
+<li><p>This is our project webpage.</p></li>
+<li><p>Please stay tuned to follow our project activities.</p></li>
+<li><p>This is our template.</p></li>
+</ul>
+<p><img src="images/ingilizce-noktalama-isaretleri-noktali-virgul.jpg" class="img-fluid"></p>
 <section id="team-members" class="level1">
 <h1>Team Members</h1>
-<ol type="1">
+<ul>
 <li><p><a href="https://emu-hacettepe-analytics.github.io/emu430-fall2023-duygualsan/">Duygu Alsan</a></p></li>
 <li><p><a href="https://emu-hacettepe-analytics.github.io/emu430-fall2023-kubilayusta/">Kubilay Usta</a></p></li>
 <li><p><a href="https://emu-hacettepe-analytics.github.io/emu430-fall2023-AhmetSanguder/">Ahmet Şangüder</a></p></li>
 <li><p><a href="https://emu-hacettepe-analytics.github.io/emu430-fall2023-Furkangkck/">Ahmet Furkan Gökcük</a></p></li>
 <li><p><a href="https://emu-hacettepe-analytics.github.io/emu430-fall2023-FBRKY/">Fikret Berkay Dilaver</a></p></li>
-</ol>
+</ul>
 </section>
 <section id="project-topic" class="level1">
 <h1>Project Topic</h1>
-<p>We did a study looking at how many people in Turkey took their own lives from 2007 to 2022.</p>
+<ul>
+<li>Suicide numbers of Türkiye between 2007-2022.</li>
+</ul>
+</section>
+<section id="video-link" class="level1">
+<h1>Video Link</h1>
+<ul>
+<li><a href="https://youtu.be/wo3vrbLSjLQ?si=EP7Mngah29s4UJXU" class="uri">https://youtu.be/wo3vrbLSjLQ?si=EP7Mngah29s4UJXU</a></li>
+</ul>
 </section>
 <section id="key-takeaways" class="level1">
 <h1>Key Takeaways</h1>
